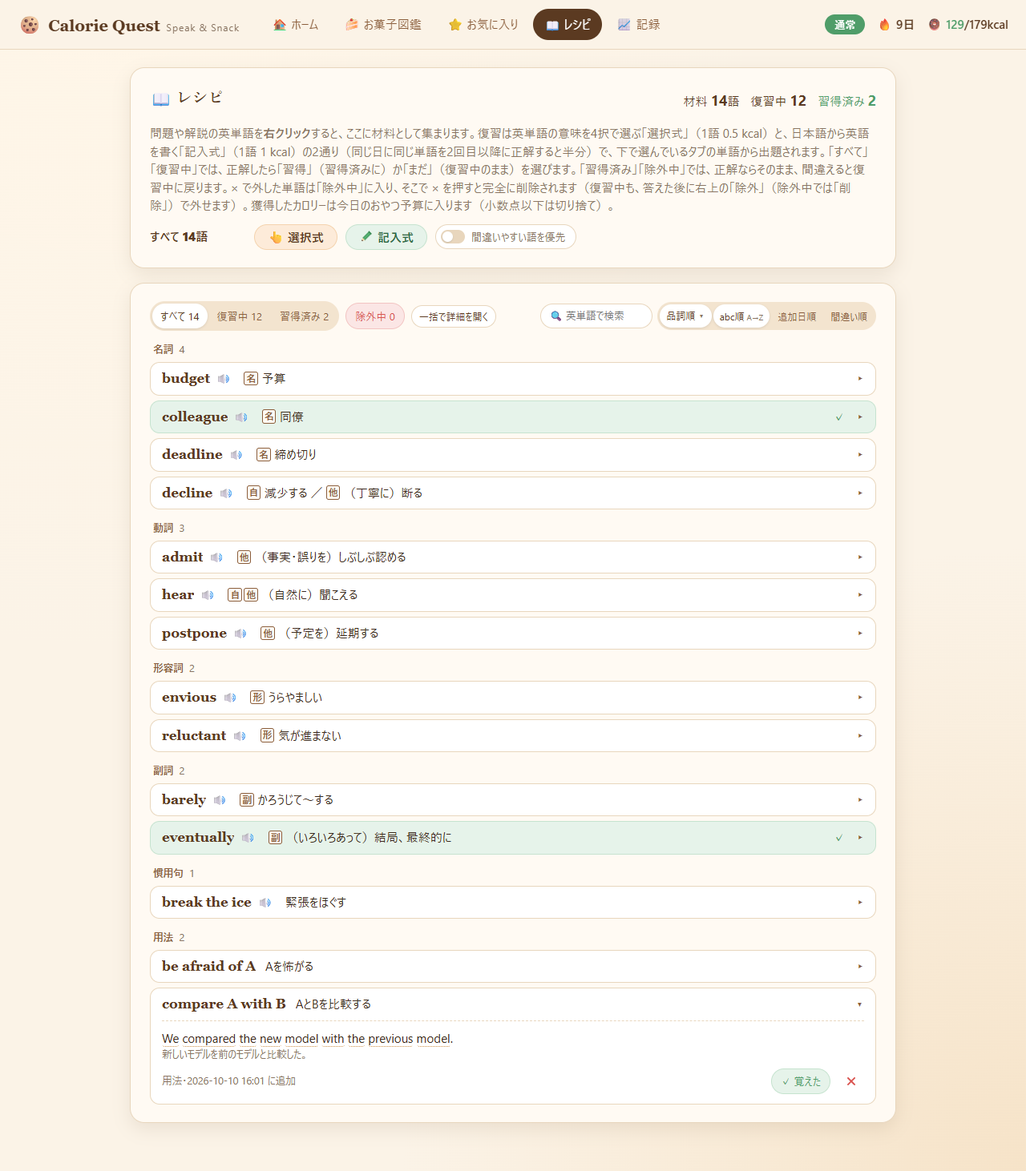
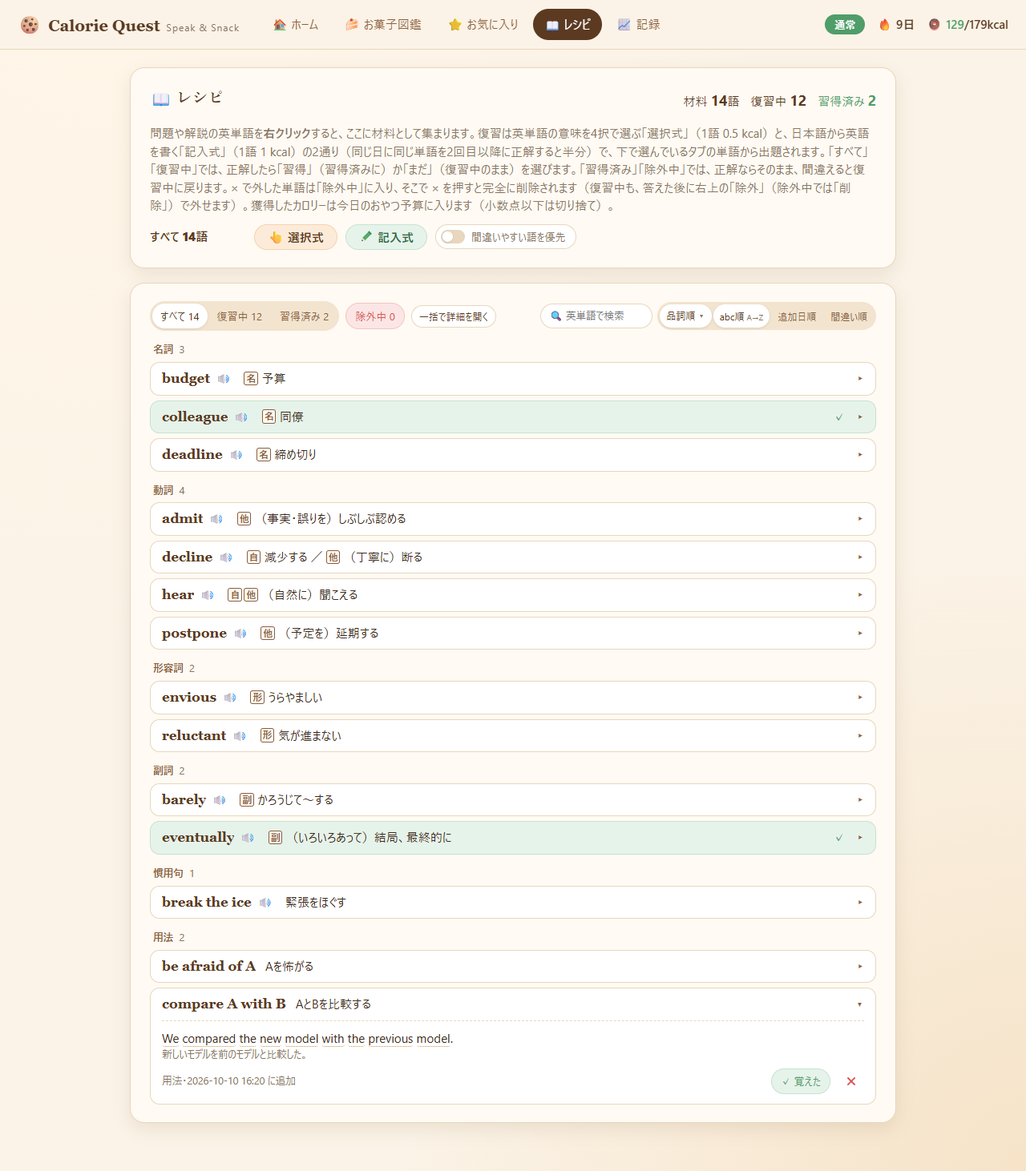
レシピ: a word is sorted under a part of speech of the meaning saved
A word of two parts of speech went under its commoner one whatever meaning was
saved: decline saved as 減少する、（丁重に）断る showed its verb tags under 名詞,
and watch saved as 腕時計 went under 動詞. recipe_poses now puts first the parts
of speech of the senses the saved meaning has (each sense tagged as on screen:
db::sense_part_of_speech = posOf in pos.ts), the commoner first among them, and
the word's other parts of speech after, so narrowing to one still finds it.
The mock does the same with posOf.

The recipe screenshot is taken again (decline under 動詞).

Changed region(s): [[0.1562, 0.4001, 0.4062, 0.4925]]

diff --git a/src/lib/mockBackend.ts b/src/lib/mockBackend.ts
@@ -23,7 +23,7 @@ import examBasic from "../../src-tauri/data/exam-basic.json";
 import exam600 from "../../src-tauri/data/exam-600.json";
 import exam800 from "../../src-tauri/data/exam-800.json";
 import { expandDictionary, lemmas, tokenize, type Dictionary } from "./dictionary";
-import { cueFor, cueText, meaningParts, posFromGloss } from "./pos";
+import { cueFor, cueText, meaningParts, posFromGloss, posOf as posOfSense } from "./pos";
 import { answerWordCount, CLEAR_SCORE, hintPenalty, kcalFor, scoredKind, scoresPerWord } from "./scoring";
 import { exampleSentence, sentences } from "./sentences";
 import type {
@@ -2292,21 +2292,35 @@ const POS_PRIORITY: PartOfSpeech[] = ["verb", "adjective", "noun", "adverb"];
 /** Mirrors db::recipe_poses: every part of speech of a saved word, the one it is sorted under first. */
 function recipePoses(word: string, meaning: string): RecipePos[] {
   const key = word.trim().toLowerCase();
-  const said: string[] = [];
+  // Each sense of the word with its part of speech, as the tags see them.
+  const senses: Array<[PartOfSpeech, string]> = [];
   if (recipeLookup.words.has(key)) {
     const { asked, added } = wordSenses(key);
-    said.push(...[...asked, ...added].map(([pos]) => pos));
+    senses.push(...([...asked, ...added] as Array<[PartOfSpeech, string]>));
   } else if (recipeLookup.idioms.has(key)) return ["idiom"];
-  else if (glossaryPos[key]) said.push(...glossaryPos[key].map(([pos]) => pos));
-  if (key in verbTypes) said.push("verb");
-  let found = [...new Set(said.filter((p): p is PartOfSpeech => POS_PRIORITY.includes(p as PartOfSpeech)))];
-  if (!found.length) found = [...new Set(meaningParts(meaning).map((s) => posFromGloss(s, word)))];
-  if (!found.length) found = [posFromGloss(meaning, word)];
+  else if (glossaryPos[key]) senses.push(...glossaryPos[key]);
+  const type = (verbTypes as Record<string, string | string[][]>)[key];
+  if (type && !senses.some(([p]) => p === "verb")) {
+    if (typeof type === "string") senses.push(["verb", ""]);
+    else for (const [, ja] of type) senses.push(["verb", ja]);
+  }
+  const isPos = (p: string): p is PartOfSpeech => POS_PRIORITY.includes(p as PartOfSpeech);
+  const found = [...new Set(senses.map(([p]) => p).filter(isPos))];
+  // The parts of speech of the senses the saved meaning has come first.
+  const meant = [
+    ...new Set(meaningParts(meaning).map((part) => posOfSense(part, senses, word) ?? posFromGloss(part, word)).filter(isPos)),
+  ];
+  for (const p of meant) if (!found.includes(p)) found.push(p);
+  if (!found.length) found.push(posFromGloss(meaning, word));
   const order = (posOrder as Record<string, string[]>)[key] ?? [];
-  const rank = (p: PartOfSpeech) => [order.includes(p) ? order.indexOf(p) : Infinity, POS_PRIORITY.indexOf(p)];
+  const rank = (p: PartOfSpeech) => [
+    meant.includes(p) ? 0 : 1,
+    order.includes(p) ? order.indexOf(p) : Infinity,
+    POS_PRIORITY.indexOf(p),
+  ];
   return found.sort((a, b) => {
     const [x, y] = [rank(a), rank(b)];
-    return x[0] - y[0] || x[1] - y[1];
+    return x[0] - y[0] || x[1] - y[1] || x[2] - y[2];
   });
 }
 

diff --git a/src/lib/pos.ts b/src/lib/pos.ts
@@ -90,7 +90,7 @@ function sensesOf(key: string, data: WordTags, added = false): Sense[] | null {
  * else the one the sense looks like when the word has it (見積もる of estimate), else the closest
  * (不気味でぞっとする is creepy's 不気味な, an adjective).
  */
-function posOf(part: string, own: Sense[], word: string): PartOfSpeech | undefined {
+export function posOf(part: string, own: Array<[PartOfSpeech, string]>, word: string): PartOfSpeech | undefined {
   if (!own.length) return posFromGloss(part, word);
   const kinds = new Set(own.map(([p]) => p));
   if (kinds.size === 1) return own[0][0];

diff --git a/src-tauri/src/db.rs b/src-tauri/src/db.rs
@@ -1361,29 +1361,38 @@ fn pos_order() -> &'static HashMap<String, Vec<String>> {
 pub fn recipe_poses(word: &str, meaning: &str) -> Vec<String> {
     let key = word.trim().to_lowercase();
     let (_, idioms) = words_by_english();
-    let mut said: Vec<&str> = Vec::new();
-    if let Some(senses) = word_senses().get(&key) {
-        said.extend(senses.asked.iter().chain(&senses.added).map(|(pos, _)| pos.as_str()));
+    // Each sense of the word with its part of speech, as the tags see them.
+    let mut senses: Vec<(String, String)> = Vec::new();
+    if let Some(own) = word_senses().get(&key) {
+        senses.extend(own.asked.iter().chain(&own.added).cloned());
     } else if idioms.contains_key(&key) {
         return vec!["idiom".to_string()];
-    } else if let Some(senses) = glossary_pos().get(&key) {
-        said.extend(senses.iter().map(|(pos, _)| pos.as_str()));
+    } else if let Some(own) = glossary_pos().get(&key) {
+        senses.extend(own.iter().cloned());
     }
-    if verb_types().contains_key(&key) {
-        said.push("verb");
+    match verb_types().get(&key) {
+        Some(_) if senses.iter().any(|(pos, _)| pos == "verb") => {}
+        Some(crate::models::VerbType::BySense(each)) => senses.extend(each.iter().map(|(_, ja)| ("verb".to_string(), ja.clone()))),
+        Some(_) => senses.push(("verb".to_string(), String::new())),
+        None => {}
     }
     let mut found: Vec<String> = Vec::new();
-    for pos in said {
-        if POS_PRIORITY.contains(&pos) && !found.iter().any(|p| p == pos) {
-            found.push(pos.to_string());
+    for (pos, _) in &senses {
+        if POS_PRIORITY.contains(&pos.as_str()) && !found.contains(pos) {
+            found.push(pos.clone());
         }
     }
-    if found.is_empty() {
-        for s in gloss_senses(meaning) {
-            let pos = pos_from_gloss(&s, word);
-            if !found.iter().any(|p| p == pos) {
-                found.push(pos.to_string());
-            }
+    // The parts of speech of the senses the saved meaning has.
+    let mut meant: Vec<String> = Vec::new();
+    for part in gloss_senses(meaning) {
+        let pos = sense_part_of_speech(&part, &senses, word);
+        if POS_PRIORITY.contains(&pos.as_str()) && !meant.contains(&pos) {
+            meant.push(pos);
+        }
+    }
+    for pos in &meant {
+        if !found.contains(pos) {
+            found.push(pos.clone());
         }
     }
     if found.is_empty() {
@@ -1392,10 +1401,39 @@ pub fn recipe_poses(word: &str, meaning: &str) -> Vec<String> {
     let order = pos_order().get(&key);
     let rank = |pos: &String| {
         let common = order.and_then(|o| o.iter().position(|p| p == pos)).unwrap_or(usize::MAX);
-        (common, POS_PRIORITY.iter().position(|p| p == pos))
+        (!meant.contains(pos), common, POS_PRIORITY.iter().position(|p| p == pos))
     };
     found.sort_by_key(|p| rank(p));
     found
+}
+
+/// The part of speech of one sense of a meaning among a word's senses: the one written the same
+/// way, else the sense's look when the word has that part of speech, else the closest sense's.
+/// Mirrors `posOf` in src/lib/pos.ts, which tags the same senses on screen.
+fn sense_part_of_speech(part: &str, own: &[(String, String)], word: &str) -> String {
+    let shape = pos_from_gloss(part, word);
+    let kinds: std::collections::HashSet<&str> = own.iter().map(|(pos, _)| pos.as_str()).collect();
+    if own.is_empty() {
+        return shape.to_string();
+    }
+    if kinds.len() == 1 {
+        return own[0].0.clone();
+    }
+    if let Some((pos, _)) = own.iter().find(|(_, ja)| !ja.is_empty() && gloss_closeness(ja, part) == 2) {
+        return pos.clone();
+    }
+    if kinds.contains(shape) {
+        return shape.to_string();
+    }
+    let mut best: Option<&String> = None;
+    let mut score = 0;
+    for (pos, ja) in own {
+        let c = gloss_closeness(ja, part);
+        if c > score {
+            (best, score) = (Some(pos), c);
+        }
+    }
+    best.cloned().unwrap_or_else(|| shape.to_string())
 }
 
 /// The part of speech the recipe sorts a saved word under (`recipe_poses`' first).
@@ -3251,11 +3289,16 @@ mod tests {
         assert_eq!(recipe_pos("barely", "かろうじて"), "adverb");
         assert_eq!(recipe_pos("traffic light", "信号"), "noun");
         assert_eq!(recipe_pos("sign up", "登録する"), "verb");
-        // A noun and a verb at the same level: the verb.
-        assert_eq!(recipe_poses("watch", "腕時計"), ["verb", "noun"]);
-        assert_eq!(recipe_poses("figure", "数字、人の姿"), ["verb", "noun"], "used as a verb too (verb-types.json)");
-        // The commoner first: book is a noun at A1 and a verb at B1.
-        assert_eq!(recipe_poses("book", "本"), ["noun", "verb"]);
+        // A part of speech of the meaning saved first, then the others it has too.
+        assert_eq!(recipe_poses("watch", "腕時計"), ["noun", "verb"]);
+        assert_eq!(recipe_poses("watch", "じっと見る、見守る"), ["verb", "noun"]);
+        assert_eq!(recipe_poses("figure", "数字、人の姿"), ["noun", "verb"], "used as a verb too (verb-types.json)");
+        assert_eq!(recipe_poses("decline", "減少する、（丁重に）断る"), ["verb", "noun"]);
+        assert_eq!(recipe_poses("decline", "減少"), ["noun", "verb"]);
+        // Among those of the meaning, the commoner first: book is a noun at A1 and a verb at B1;
+        // a noun and a verb at the same level, the verb.
+        assert_eq!(recipe_poses("book", "本、予約する"), ["noun", "verb"]);
+        assert_eq!(recipe_poses("watch", "腕時計、見守る"), ["verb", "noun"]);
         assert_eq!(recipe_poses("apple", "りんご"), ["noun"]);
         assert_eq!(recipe_pos("keep your fingers crossed", "幸運を祈る"), "idiom");
         assert_eq!(recipe_pos("hear", "聞く"), "verb");

diff --git a/CLAUDE.md b/CLAUDE.md
@@ -28,7 +28,7 @@ npm run tauri build        # 配布ビルド
 | `src-tauri/src/srs.rs` | kcal 換算（1点 = 1 kcal）は**問題の区分と出題形式**で決まり、`difficulty` は使わない。区分は `scored(kind, tier)`: 英単語 `Word`（tier `word`、句動詞も）/ 複合語 `Compound`（単語問題で tier `compound`）/ 慣用句 `Idiom` / 文 `Sentence`（文法・フレーズ・例文・長文・会話・丸暗記フレーズ）。`kcal_for(scored, mode, …)`: 選択は英単語 1（`KCAL_WORD_CHOICE`）・それ以外 2（`KCAL_CHOICE`）、記入は英単語 2・複合語 4・慣用句 5（`typing_kcal`）、ヒアリングと発音は英単語 1・複合語 2・慣用句 3・文 5（`spoken_kcal`、発音はスコア按分）。記入のヒントは `apply_hint_penalty`: 英単語は1語でも開示すると 0、複合語・慣用句は開示1語ごとに半減（四捨五入）。復習倍率 1.5。間違えた問題は翌日（`RETRY_DAYS`）の復習へ（`next_state`）。**復習の消化**: 期限の来た復習は正解（発音は65点以上 = `SPEAKING_REVIEW_THRESHOLD`、フロントの `CLEAR_SCORE`）で消化され ×1.5 を払う。その日の復習で間違えてから消化した問題は3日後（`REVIEW_AGAIN_DAYS`）にもう一度出し、すぐ正解した問題はそれで終わり（数日おきの確認はしない）。何回の間違いで3日後に戻すかは形式で決まる（`misses_to_review_again`）: 選択・ヒアリングは1回、記入・発音は3回（1文字の打ち間違いや認識の揺れも間違いになるため）。3日後の復習も同じ規則（また間違えればまた3日後）。その日の間違いは `record_answer` が `answer_log` の `is_review` = 1 の誤答（発音の低スコアも）をその日の分だけ数える（`mockBackend.ts` は `Hist.reviewMisses`）。`srs_level` は消化した回数を数えるだけ。前の規則（3 / 7 / 14 / 30 日後の確認）で消化済みのまま待っていた復習（`srs_level` > 0）は、起動時に一度だけ通常の出題に戻す（`meta` の `done_reviews_released`）。消化できない回答は 0 kcal（文の記入の部分点もなし）で、`next_due_at` を期限の日のまま残す（`due_on`）ので、その日の復習に残り、消化しなかった分だけが翌日に繰り越される。結果の `stays_today` がそれを示し、Study は回の終わりに「間違えた復習 N 問をもう一度」（選択肢の順を変えて同じ問題）を出す。通常の問題の間違いは従来どおり翌日。期限から `STALE_REVIEW_DAYS`（7日）を超えて残った復習は `commands::release_stale_reviews`（`load_dashboard` と `session_questions` のたびに実行）が通常の出題に戻す（`needs_review` = 0、段階・期限・形式を消す）。例外として文を書く記入問題（例文 `phrase`・長文 `sentence`・丸暗記フレーズ `expression`）は答えの1語 1 kcal・ヒント開示1語ごとに −1 kcal・打ち間違えた語1つごとに −1 kcal（`scores_per_word` / `per_word_kcal`）。間違えた語の数はフロントの `gradeTyping`（`scoring.ts`、最も近い正解との語単位の編集距離）が `mistakes` として送り、不正解でも残りの kcal を払う（正誤と復習の判定は従来どおり完全一致）。どの語も開示できるよう、この問題のヒントは "a" や "I" も伏せる（`scoring.ts` の `maskWord(word, true)`）。`mockBackend.ts` に同じ計算の写しがある。レシピの復習は `recipe_quarter_kcal`（その日はじめて正解した語は選択式 0.5 / 記入式 1 kcal、同じ日の2回目以降はその半分 0.25 / 0.5 kcal）。**遊び方（モード）**: がんばり `hard`（すべての獲得 ×0.5）/ 通常 `normal` / お気軽 `easy`（×1.5）を `users.play_mode` に持つ（`PLAY_MODES`、`apply_play_mode`）。獲得はすべて `commands::credit` を通る（学習の回答・レシピ復習・試験の合格報酬と挑戦ボーナス・試験の復習・チートデイ）: 報酬を 1/8 kcal 単位（`EIGHTHS`。どの報酬も 1 kcal か 0.25 kcal の整数倍なので ×0.5 / ×1.5 でも割り切れる）でモードに掛け、整数になった分だけ今日の `kcal_earned` に足し、端数は `daily_stats.kcal_eighths` でその日のうちだけ持ち越す（`split_kcal`、日付が変わると切り捨て）。結果は `kcal_earned`（いま足した整数）と `points`（モードを掛けた後のその回答の値。画面の「+0.5 kcal」）を返す。`answer_log.kcal` はモードを掛ける前の値。旧列 `recipe_half_kcal` → `recipe_quarter_kcal` → `kcal_eighths` は起動時に名前を変えて端数だけ引き継ぐ。右上の `PlayModeSwitch` がクリックごとに がんばり（赤）→ 通常（緑）→ お気軽（青）と切り替え（`set_play_mode`）、ホバーで説明を出す。回答後の kcal の横には通常以外のとき `PlayModeTag`（「がんばり ×0.5」）。ホームの「あと何問」もモードの倍率で数える |
 | `src-tauri/src/commands.rs` | Tauri コマンド。コアロジックは `session_questions` / `record_answer` / `redeem_ticket` / `load_dashboard` などに分離され、`Connection` だけでテストできる。貯蓄は `settle_savings` が `load_dashboard` のたびに、終わった日（`daily_stats.saved_kcal` が NULL）の残りを `users.savings_kcal` へ移し、2,000 kcal ごとに `snack_tickets` を発行する。貯蓄を入れる前からあった過去の日は、移行時に 0 で締めてある（さかのぼって払わない）。復習は**間違えた形式で出す**: `record_answer` が間違えた（発音は低スコアの）モードを `learning_history.review_mode` に記録し、通常のセッションはそのモードの復習だけを混ぜ、ホームの「復習をはじめる」（`REVIEW_SESSION` = `"review"`）は期限の来た復習だけを問題ごとのモードで出す。移行前から復習待ちの問題は `answer_log` の直近の間違いから埋めてあり、記録のないものは選択問題で出す。フロントの Study は `current.mode` で問題ごとに描き分ける |
 | `src-tauri/src/db.rs` | スキーマ、`ensure_column` によるマイグレーション、`questions.json` / お菓子の初期投入 |
-| `src-tauri/src/recipe.rs` | レシピ（学習者の単語帳）。`recipe_words` テーブルへの追加・一覧・復習・習得済み・削除。同じ語の再追加はエラーにせず、習得済みなら復習に戻す。単語の状態は 復習中（`mastered_at` も `excluded_at` も NULL）/ 習得済み（`mastered_at`）/ 除外中（`excluded_at`。一覧の × = `exclude`、除外中での × だけが `delete` で完全に削除）。タブ `RecipeTab` は すべて `all`（除外中以外）/ `learning` / `mastered` / `excluded`。復習（`review`）は `mode`（`choice` / `typing`）と出題元のタブ `target` 付きで、すべて・復習中で正解すると習得済みに（`COALESCE` で最初の習得日のまま）、習得済み・除外中で正解ならそのまま。**間違えるとどのタブからでも復習中に戻す**（`mastered_at` と `excluded_at` を NULL。すべてタブの習得済みの語も）。すべて・復習中での正解の後は画面の「習得」／「まだ」で学習者が決める（なんとなくの正解で習得済みにならないよう）: 「習得」は答えが置いた習得済みのまま、「まだ」は `set_mastered(false)` で復習中に戻す。習得済み・除外中の復習ではボタンを出さず、正解ならそのまま「次へ」（`asksDecision`）。間違えるたびに `misses` を数える（一覧の「間違い順」と復習の「間違いやすい語を優先」に使う）。`set_mastered`（一覧の ✓ 覚えた / 復習に戻す）は除外中からも出す。除外中の語をもう一度右クリックすると復習中に戻す（`RecipeAddStatus::Unexcluded`）。1語が満額を払うのはその日はじめて正解したときだけで、同じ日の2回目以降は半分（`recipe_words.paid_on` がその日はじめて正解した日。結果の `repeat`）。一覧の並び替え用に、各語の品詞をすべて `poses` に、そのうち並べる品詞（いちばん一般的なもの）を `pos` に、`db::recipe_poses` で付けて返す（保存はしない）: 単語問題にある語はその問題（同じ英語が複数あればすべて）の品詞と、verb-types.json にあれば動詞（figure 数字 は名詞と動詞）、慣用句は `idiom`、glossary だけの語は意味ごとの品詞（`glossary_pos`）、どれでもなければ意味の日本語から `db::pos_from_gloss` で推定（～に/と → 副詞、う段 → 動詞、い/な/の/的… → 形容詞、それ以外は名詞）。並べる品詞は pos-order.json の順（より一般的なものが先）、書いていなければ 動詞 → 形容詞 → 名詞 → 副詞。一覧の「品詞順」はそれぞれの語を `pos` の1か所に並べ、「名詞のみ」などの絞り込みは `poses` に含む語をすべて出す（figure は名詞のみにも動詞のみにも出る）。`mockBackend.ts` の `recipePoses` が写し |
+| `src-tauri/src/recipe.rs` | レシピ（学習者の単語帳）。`recipe_words` テーブルへの追加・一覧・復習・習得済み・削除。同じ語の再追加はエラーにせず、習得済みなら復習に戻す。単語の状態は 復習中（`mastered_at` も `excluded_at` も NULL）/ 習得済み（`mastered_at`）/ 除外中（`excluded_at`。一覧の × = `exclude`、除外中での × だけが `delete` で完全に削除）。タブ `RecipeTab` は すべて `all`（除外中以外）/ `learning` / `mastered` / `excluded`。復習（`review`）は `mode`（`choice` / `typing`）と出題元のタブ `target` 付きで、すべて・復習中で正解すると習得済みに（`COALESCE` で最初の習得日のまま）、習得済み・除外中で正解ならそのまま。**間違えるとどのタブからでも復習中に戻す**（`mastered_at` と `excluded_at` を NULL。すべてタブの習得済みの語も）。すべて・復習中での正解の後は画面の「習得」／「まだ」で学習者が決める（なんとなくの正解で習得済みにならないよう）: 「習得」は答えが置いた習得済みのまま、「まだ」は `set_mastered(false)` で復習中に戻す。習得済み・除外中の復習ではボタンを出さず、正解ならそのまま「次へ」（`asksDecision`）。間違えるたびに `misses` を数える（一覧の「間違い順」と復習の「間違いやすい語を優先」に使う）。`set_mastered`（一覧の ✓ 覚えた / 復習に戻す）は除外中からも出す。除外中の語をもう一度右クリックすると復習中に戻す（`RecipeAddStatus::Unexcluded`）。1語が満額を払うのはその日はじめて正解したときだけで、同じ日の2回目以降は半分（`recipe_words.paid_on` がその日はじめて正解した日。結果の `repeat`）。一覧の並び替え用に、各語の品詞をすべて `poses` に、そのうち並べる品詞（いちばん一般的なもの）を `pos` に、`db::recipe_poses` で付けて返す（保存はしない）: 単語問題にある語はその問題（同じ英語が複数あればすべて）の品詞と、verb-types.json にあれば動詞（figure 数字 は名詞と動詞）、慣用句は `idiom`、glossary だけの語は意味ごとの品詞（`glossary_pos`）、どれでもなければ意味の日本語から `db::pos_from_gloss` で推定（～に/と → 副詞、う段 → 動詞、い/な/の/的… → 形容詞、それ以外は名詞）。並べる品詞は、まず**登録した訳にある品詞**（訳の意味ごとに、画面のタグと同じ決め方で品詞を出す。`db::sense_part_of_speech` = `pos.ts` の `posOf`。watch を「腕時計」で登録すれば名詞、decline を「減少する、（丁重に）断る」で登録すれば動詞）、その中では pos-order.json の順（より一般的なものが先）、書いていなければ 動詞 → 形容詞 → 名詞 → 副詞。訳にない品詞はその後ろ（絞り込みには出る）。一覧の「品詞順」はそれぞれの語を `pos` の1か所に並べ、「名詞のみ」などの絞り込みは `poses` に含む語をすべて出す（figure は名詞のみにも動詞のみにも出る）。`mockBackend.ts` の `recipePoses` が写し |
 | `src-tauri/src/favorite.rs` | お気に入り。`favorites` テーブル（学習の問題は `question_id` + `mode`、試験の問題は `exam_id`。UNIQUE で二重登録しない）。学習の問題は**出題された形式ごと**に登録する（同じ単語を選択と記入で別々に）。`keys`（☆/★ の表示用）/ `set_question` / `set_exam` / `list`（新しい順。学習の問題は `commands::build_session_question` でその形式の `SessionQuestion` に、試験は `exam::question` で `ExamQuestion` にして返す。問題が消えていれば飛ばす）/ `mark_reviewed`（`last_reviewed_at` だけ更新）。**お気に入りの復習はカロリーを払わず、`learning_history`・`answer_log`・`daily_stats`・`exam_mistakes` に触れない**（テストが検査）。学習記録のリセットでは消さない。`mockBackend.ts` に写し（学習の問題は id でなく `key` で持つ） |
 | `src-tauri/src/exam.rs` | 試験（TOEIC形式の30問）。問題は `data/exam-basic.json` / `exam-600.json` / `exam-800.json` の「セット」の配列（`part`: `listening` 応答問題（3択）/ `short` 短文穴埋め / `text` 長文穴埋め（本文に [1]〜[4]、うち1つは文挿入）/ `reading` 読解（2〜4問）。各問に `explanation` と訳、短文穴埋めは `point`）。`build_exam_from` は応答6・長文1本（4問）・読解8問（本文ごと）を選び、残りを短文穴埋めで30問にして、Part の順（応答→短文→長文→読解）に並べる。どのパートも**まだ出していないセットを先に**（`exam_seen`: セットごとの最後に出した時刻。回答した問題のセットを `save_progress` と `finish` が記録する）、なければ出してから長いものを選び、同じ条件の中ではランダム。読解は本文ごとに2〜4問なので、まだ出していない本文から8問に最も近い組み合わせ（`fullest`、ちょうど8問になればそれ）を選び、6問に届かないときだけ出したことのある本文で補う（残りは短文穴埋め）。テスト `exams_ask_what_has_not_been_asked_first` が続けて4回受けてもまだ出していない問題があるうちは同じセットが出ないことを検査する。`build_exam`（テスト用）は何も出していない扱い。問題 id は「セット id-番号」で、`exam_mistakes` に入る。70%以上で合格（`passes`）。**中断**: 試験の回答のたびにフロントが `save_exam_progress`（問題 id の並びとここまでの答え）を呼び、`exam_progress` にレベルごとに1件持つ（`save_progress`。答えが0件なら消す）。だから「← 中断する」・タブの移動・アプリの終了のどれでも残る。次にそのレベルを始めると Exam は `get_exam_progress`（`progress`。問題が問題集から消えていれば捨てる）を先に読み、あれば「続きから再開しますか？」: はい は保存した問題と答え（`answeredFrom` で採点し直す）で、まだ答えていない最初の問題から、いいえ は `discard_exam_progress` してから `start_exam`。提出（`finish`）で消え、ホームのレベルのカードには `ExamLevelInfo.suspended`（answered / total）で「⏸ 中断中 3/30」。学習記録のリセットでも消す。ホームのレベルの「✓ 合格」はその日に合格したときだけ出す（`ExamLevelInfo.passed_today`。翌日には消え、ベストの点は残る）。合格報酬（100/150/200）と不合格の挑戦ボーナス（30）は**受けるたびに**払う（回数の制限はない）。間違えた問題は学習の復習（`learning_history`）とは別の `exam_mistakes` に入り、試験の復習で正解すると3 kcal 払って外す。解説の `notes` は正解の語の `word_notes`（3語以下のとき）と完成した文の `used_words`。長文の空欄の文は本文を文に分けて埋める（`sentences`：Ms. や a.m. では切らない。.?! の直後の閉じ引用符は文に含め、その後が小文字なら文は続く）が、答えが文そのもの（文挿入）ならその文。`mockBackend.ts` に同じ処理の写しがある。テストがデータの形（選択肢の数・答えが選択肢にある・空欄と設問の数）と各レベルの問題数（5回続けて被りなしで組める量: 応答30・短文60・長文10本・読解40問以上、`every_level_can_make_varied_exams`）を検査し、`dictionary_covers_words_used_in_sentences` が本文と設問の英単語が辞書にあることを検査する（人名・社名は glossary に「キム（人名）」のように書く） |
 | `src-tauri/src/speech.rs` | SAPI5 で英語 TTS → WAV（フロントで再生）、WinRT `SpeechRecognizer` のリスト文法で発音判定（認識の準備ができて聞き始めた時点で `speech-listening` イベントを出し、フロントはそれまで「準備中」で話させない。結果には候補から読んだお手本の文の確信度 `target_confidence` と、声が聞こえたか `heard` を付け、聞こえたのに聞き取れなかったときは "unclear"（回数に数えない）として「音声が検出されませんでした」と分ける。文の途中の短い間で切れないよう、話し終わりの無音は 1.2 秒）。**合成はプロセス全体で1つずつ**（`SYNTHESIS` の Mutex）: OneCore の音声エンジン（MSTTSEngine_OneCore.dll）は複数スレッドから同時に使うとプロセスごと落ちる（0xc0000409）。数語をまとめて読むときは `native_synthesize_all`（1つの音声で順に合成し、各 WAV の前に u32 の長さを付けて返す）を使い、`native_synthesize` を並列に呼ばない。`cargo test words_asked_for_at_once -- --ignored` が同時の要求で落ちないことを確かめる |

diff --git a/README.md b/README.md
@@ -26,7 +26,7 @@
 
 | レシピ（単語帳） | お菓子図鑑（家計簿・貯蓄・並び替え） |
 | --- | --- |
-| ![レシピ: 品詞順にまとめた1行ずつの一覧（名詞・動詞・形容詞・副詞・慣用句・用法、習得済みは緑）。類似表現のある語は意味をニュアンスで出す（admit「（事実・誤りを）しぶしぶ認める」、decline「[自] 減少する ／ [他] （丁寧に）断る」。品詞が2つある語は一般的な品詞の所に並ぶ）。タブ・検索・並び替え、開いた用法 compare A with B の例文と訳](docs/screenshots/recipe.png) | ![お菓子図鑑: 今日のカロリー家計簿と取り消し、貯蓄の進み具合とお菓子引換券、並び替えできる1行ずつのお菓子の一覧（目標の★、食べた、引換券、自作の削除）](docs/screenshots/snacks.png) |
+| ![レシピ: 品詞順にまとめた1行ずつの一覧（名詞・動詞・形容詞・副詞・慣用句・用法、習得済みは緑）。類似表現のある語は意味をニュアンスで出す（admit「（事実・誤りを）しぶしぶ認める」、decline「[自] 減少する ／ [他] （丁寧に）断る」）。タブ・検索・並び替え、開いた用法 compare A with B の例文と訳](docs/screenshots/recipe.png) | ![お菓子図鑑: 今日のカロリー家計簿と取り消し、貯蓄の進み具合とお菓子引換券、並び替えできる1行ずつのお菓子の一覧（目標の★、食べた、引換券、自作の削除）](docs/screenshots/snacks.png) |
 
 | お気に入り | 記録 |
 | --- | --- |
@@ -233,7 +233,7 @@ cd src-tauri && cargo test
 
 - **検索**: 入力した文字で**始まる**単語だけを残します（「b」なら barely・bare・beer、「bar」なら barely・bare。cab は残りません）
 - **abc順／追加日順／間違い順**: どれか1つ。もう一度押すと逆順（A→Z ⇄ Z→A、新→古 ⇄ 古→新、多→少 ⇄ 少→多）。間違い順は、復習で間違えた回数の多い順で、各行に「間違い ○回」が出ます
-- **品詞順**: 1回目で名詞 → 動詞 → 形容詞 → 副詞 → 慣用句 → 用法の順にまとめます（中の順番は abc順／追加日順に従う）。品詞が2つ以上ある語は、より一般的に使う品詞の1か所に並びます（book は名詞、どちらとも言えない figure・watch は 動詞 → 形容詞 → 名詞 → 副詞 の順で動詞）。2回目からはメニューが開き、「名詞のみ」のように1つの品詞（または慣用句・用法）だけに絞れます（中の順番は abc順／追加日順／間違い順に従う）。絞り込みでは、その品詞を持つ語がすべて出ます（figure は「名詞のみ」にも「動詞のみ」にも出ます）。複合語は全体の意味で分類します（traffic light は名詞、sign up は動詞）。問題集にない単語は登録した意味の形（～する・～い など）で推定します
+- **品詞順**: 1回目で名詞 → 動詞 → 形容詞 → 副詞 → 慣用句 → 用法の順にまとめます（中の順番は abc順／追加日順に従う）。品詞が2つ以上ある語は、登録した訳にある品詞の1か所に並びます（watch を「腕時計」で登録すれば名詞、「見守る」なら動詞）。訳に品詞が2つ以上あるときは、より一般的に使う品詞の所です（book は名詞、どちらとも言えない語は 動詞 → 形容詞 → 名詞 → 副詞 の順）。2回目からはメニューが開き、「名詞のみ」のように1つの品詞（または慣用句・用法）だけに絞れます（中の順番は abc順／追加日順／間違い順に従う）。絞り込みでは、その品詞を持つ語がすべて出ます（figure は「名詞のみ」にも「動詞のみ」にも出ます）。複合語は全体の意味で分類します（traffic light は名詞、sign up は動詞）。問題集にない単語は登録した意味の形（～する・～い など）で推定します
 
 | 復習 | 内容 | 1語正解あたり |
 | --- | --- | --- |
